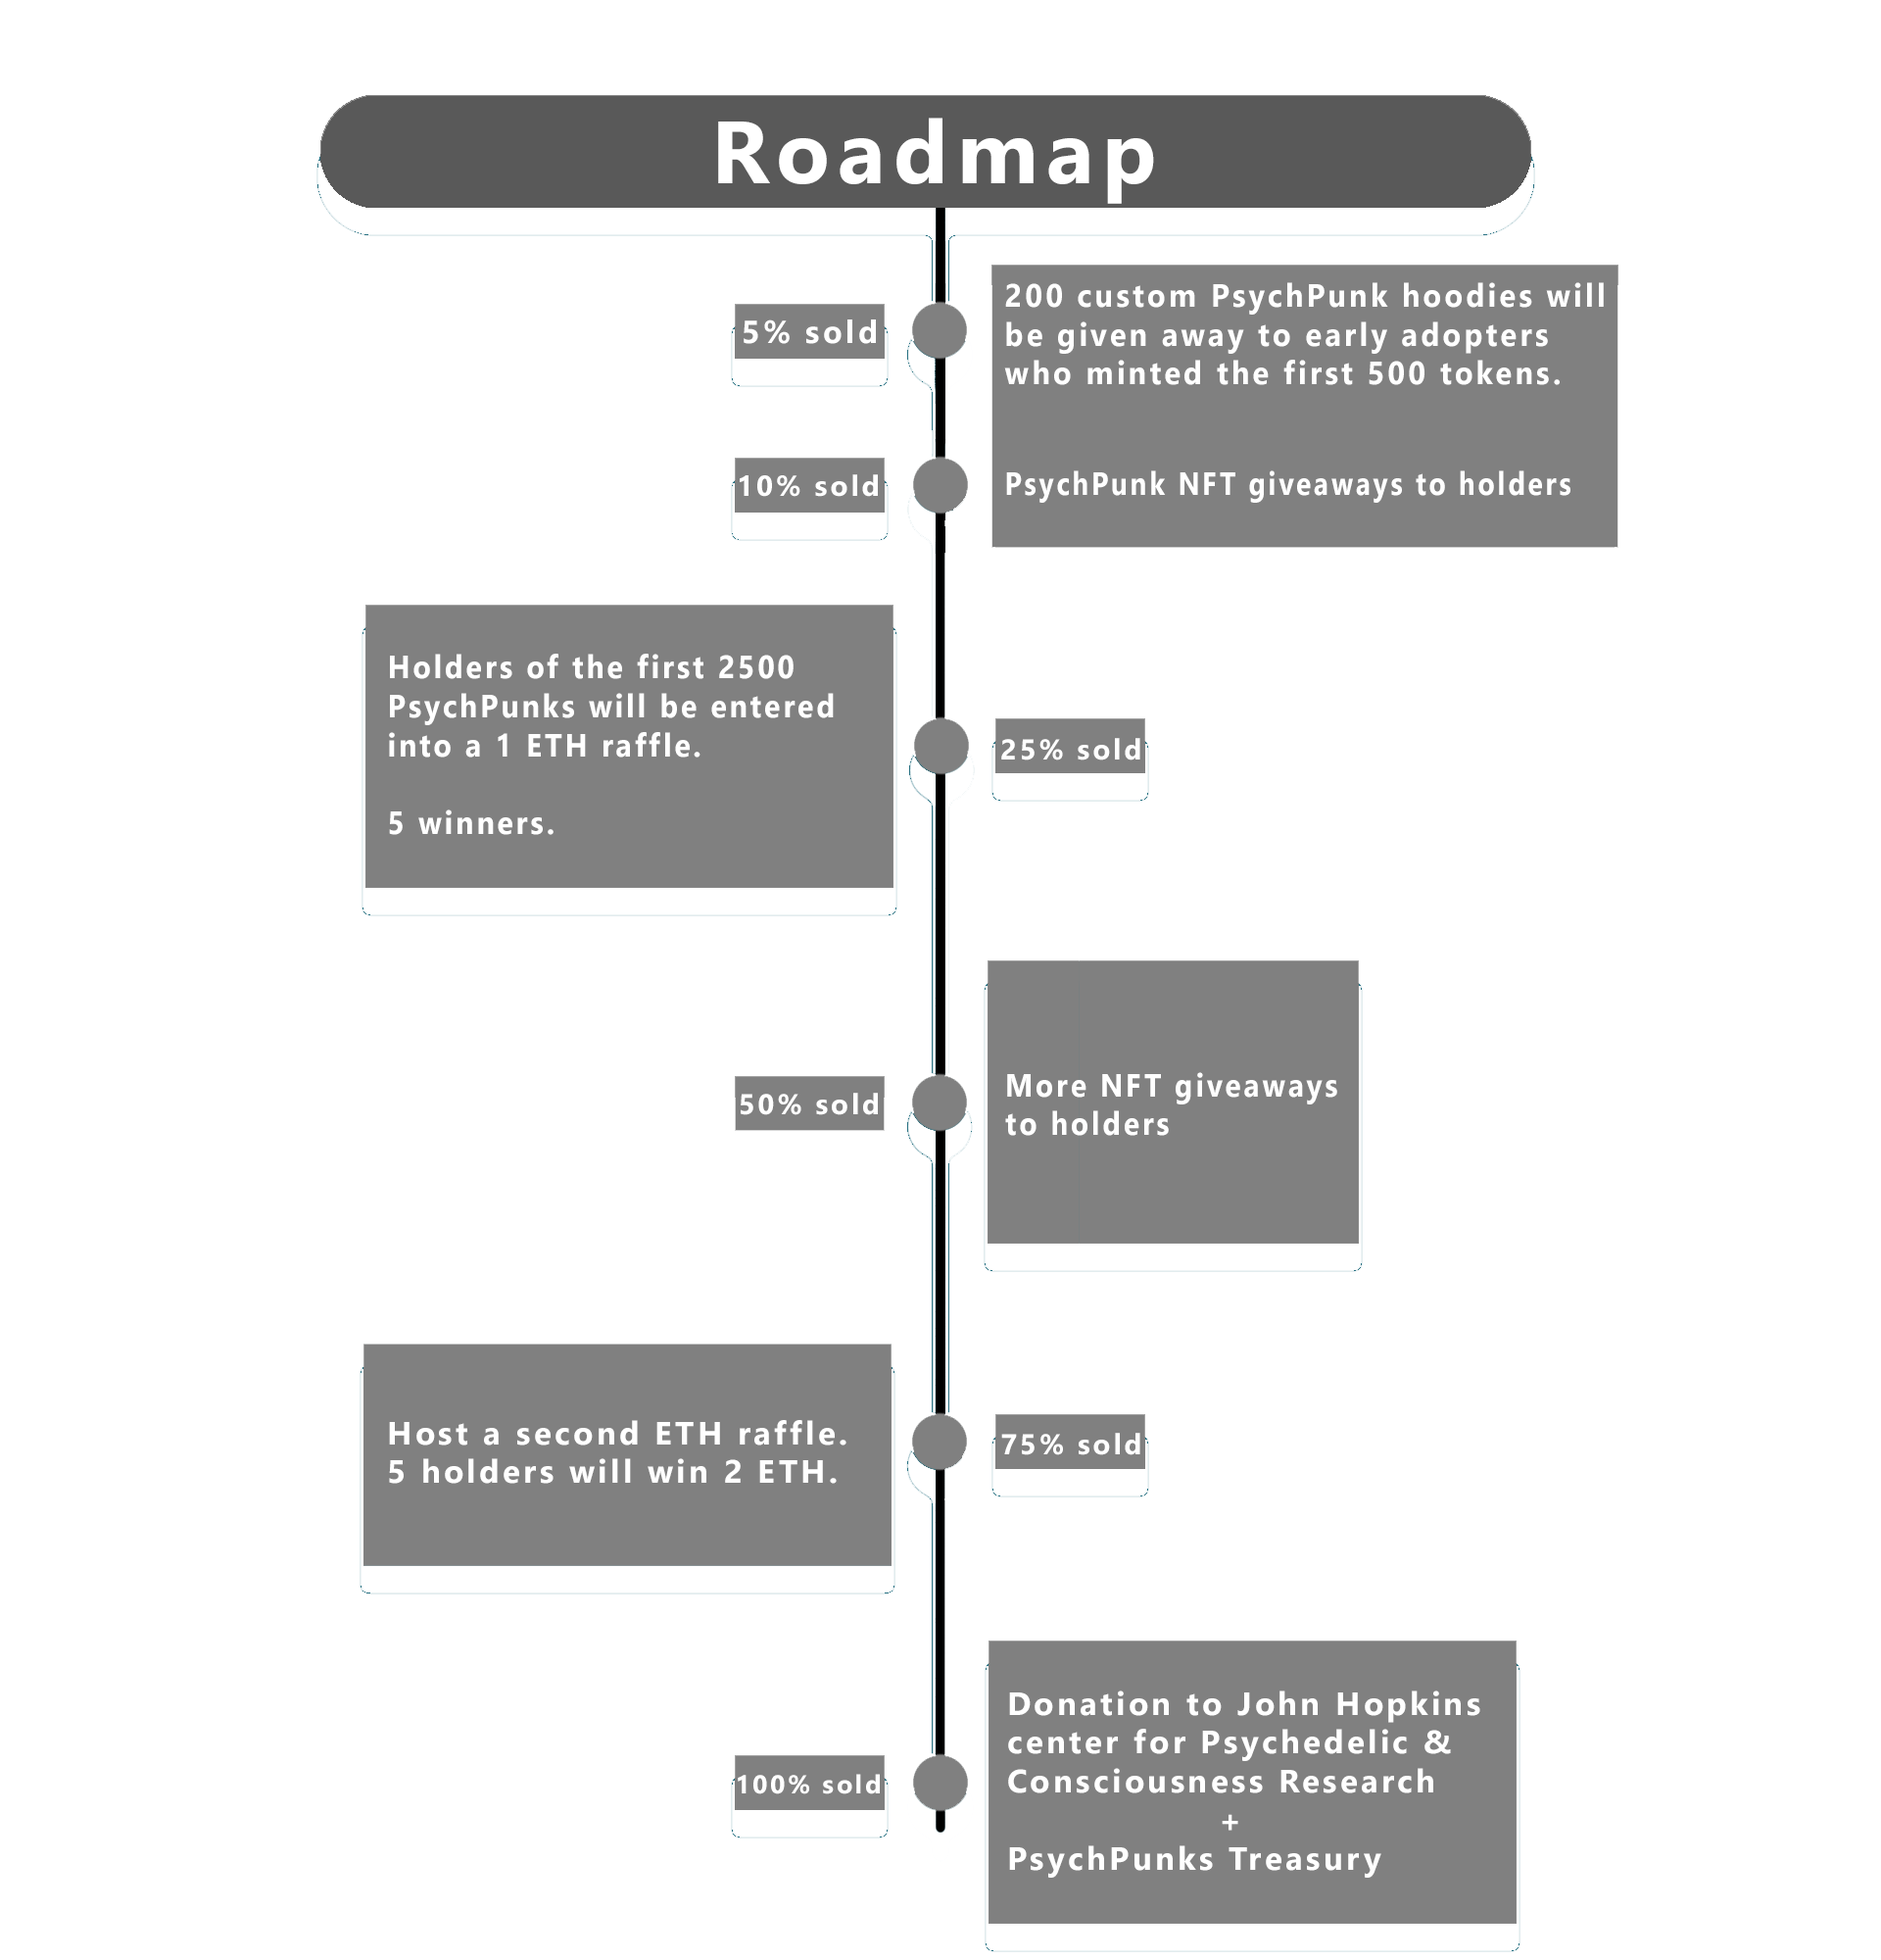
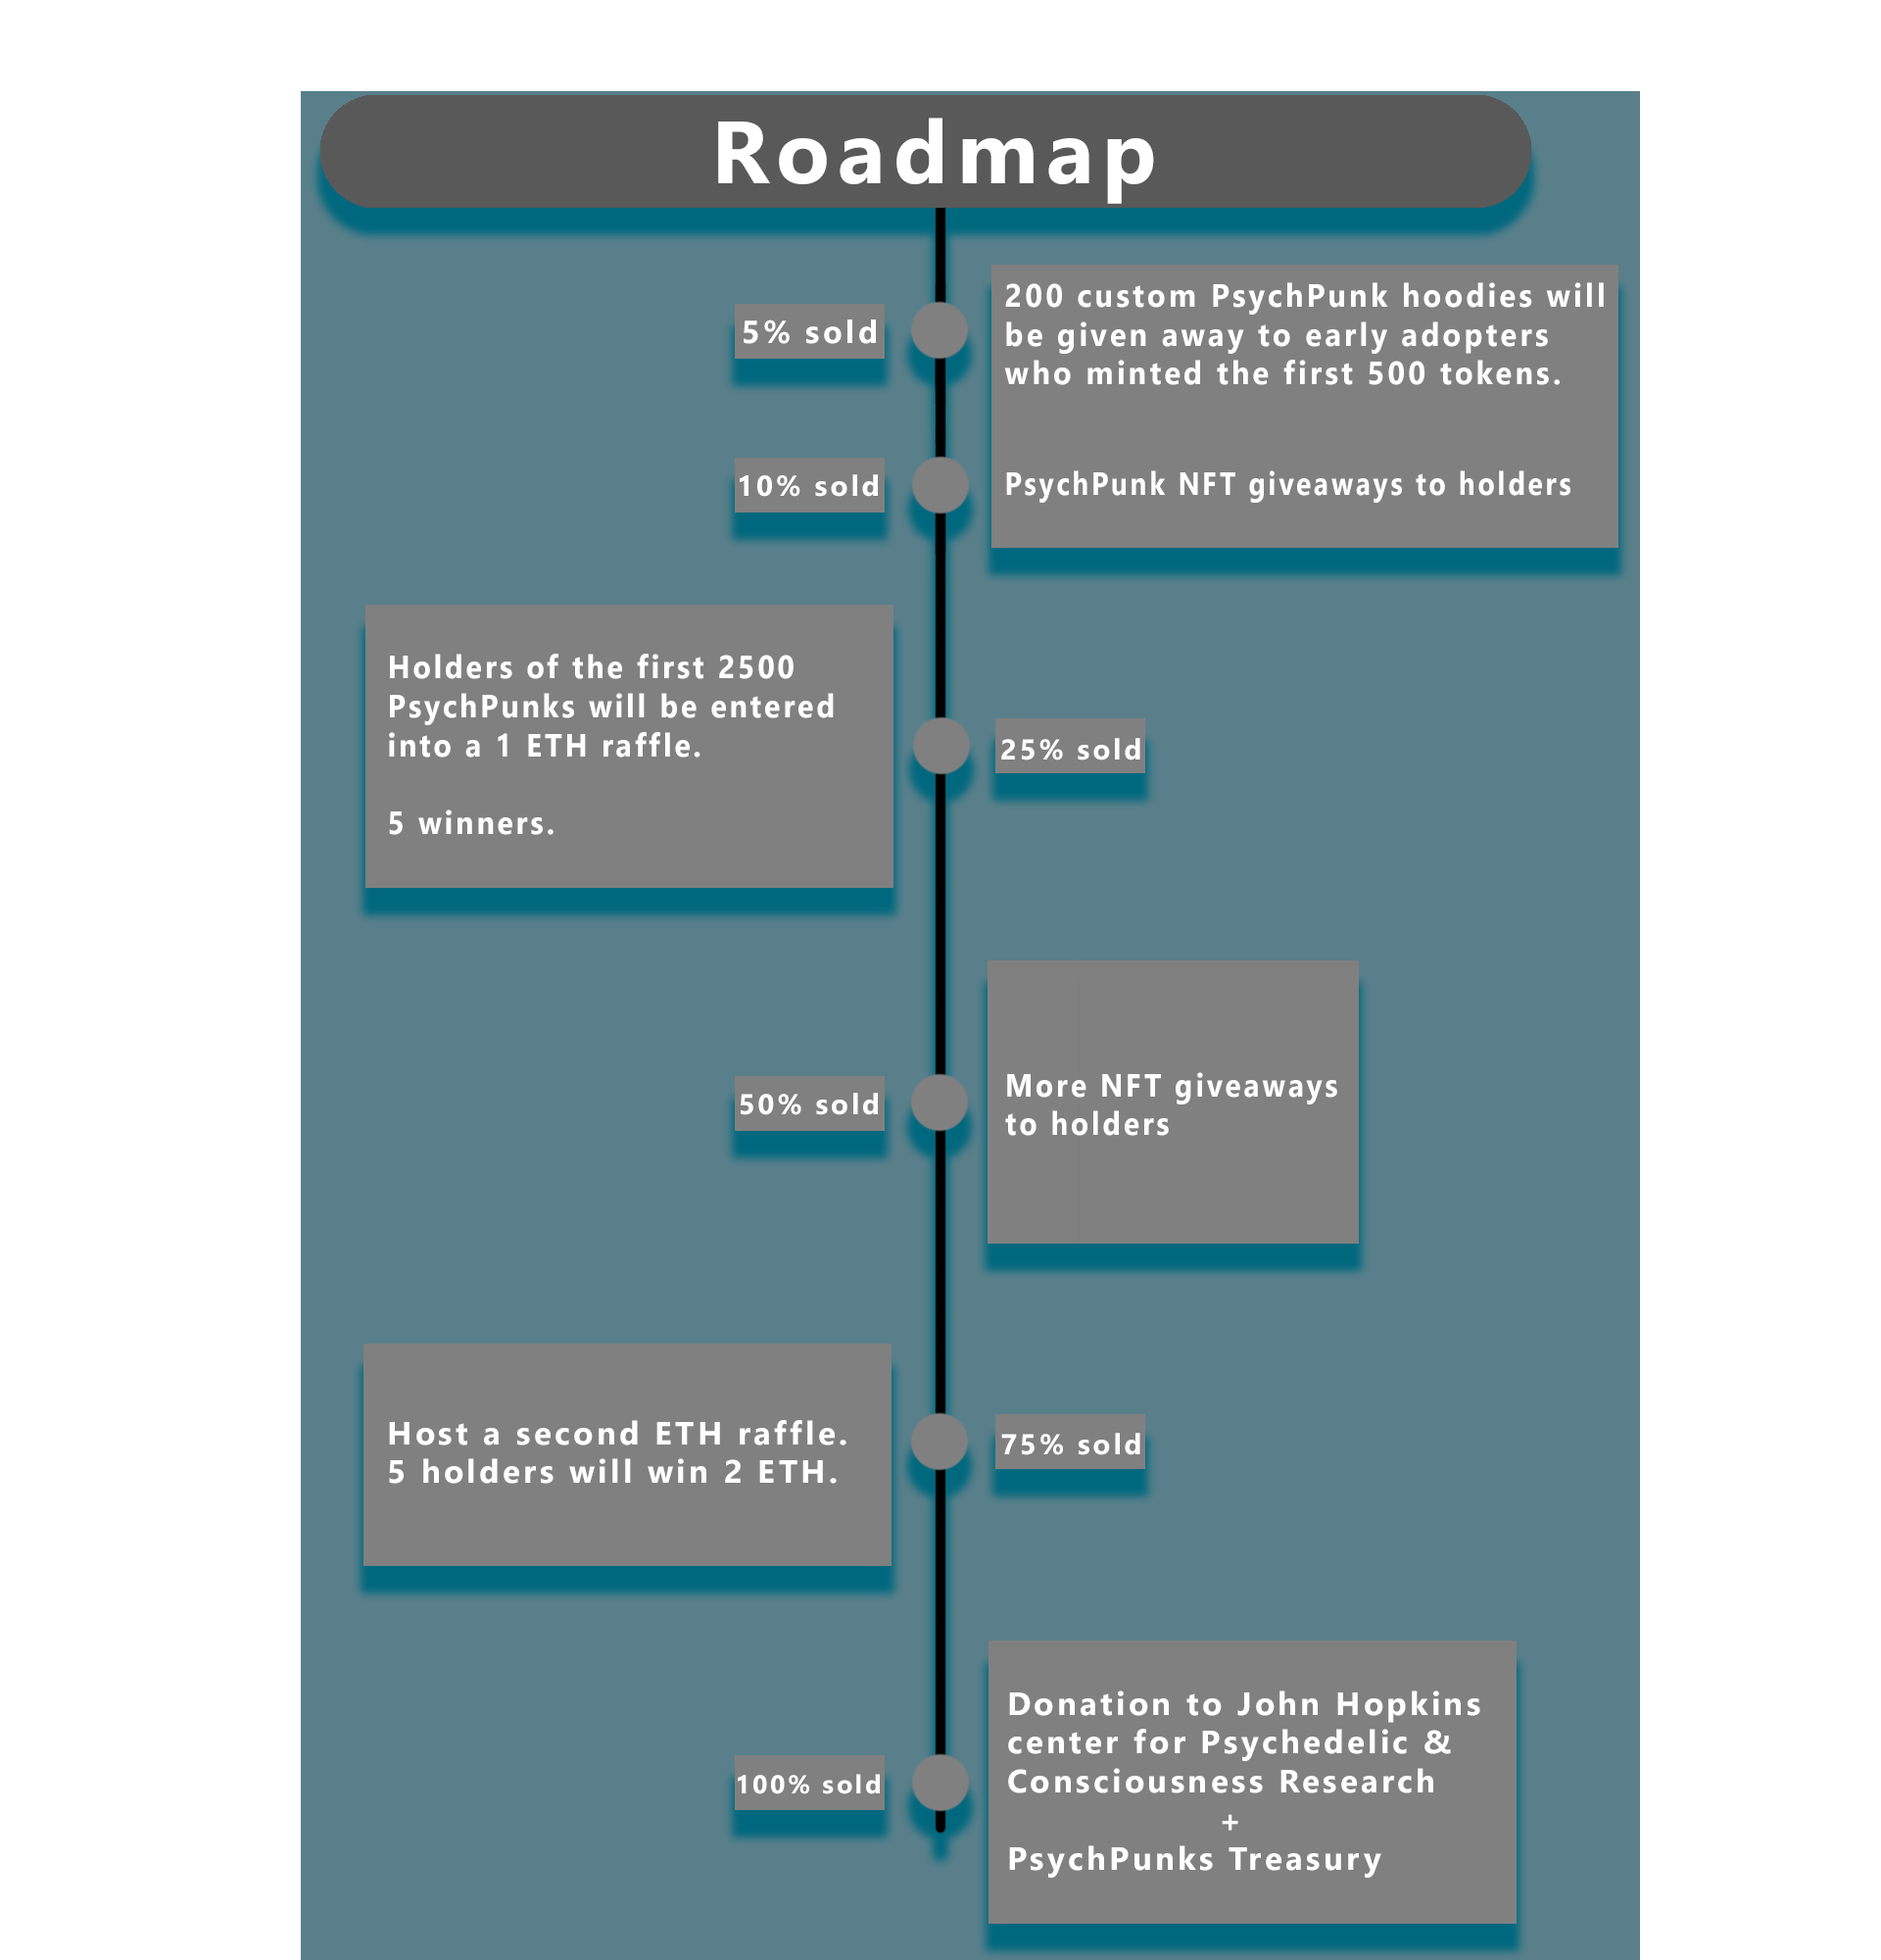
updates

diff --git a/src/components/HeroSection/HeroElements.js b/src/components/HeroSection/HeroElements.js
@@ -53,20 +53,11 @@ export const HeroContent = styled.div`
   align-items: center;
 `;
 
-export const HeroH1 = styled.h1`
-  font-family: PressStart2P;
-  color: white;
-  font-size: 42px;
-  text-align: center;
-  text-shadow: -2px 3px black;
-
-  @media screen and (max-width: 768px) {
-    font-size: 40px;
-  }
-
-  @media screen and (max-width: 480px) {
-    font-size: 32px;
-  }
+export const HeroLogo = styled.img`
+  height: 100px;
+  width: auto;
+  align-self: center;
+  margin-bottom: -20px;
 `;
 
 export const HeroP = styled.p`
@@ -75,6 +66,23 @@ export const HeroP = styled.p`
   font-size: 24px;
   text-align: center;
   max-width: 600px;
+
+  @media screen and (max-width: 768px) {
+    font-size: 24px;
+  }
+
+  @media screen and (max-width: 480px) {
+    font-size: 18px;
+  }
+`;
+
+export const HeroP1 = styled.p`
+  margin-top: 10px;
+  color: white;
+  font-size: 28px;
+  text-align: center;
+  max-width: 600px;
+  text-shadow: 1px 1px black;
 
   @media screen and (max-width: 768px) {
     font-size: 24px;

diff --git a/src/components/HeroSection/index.js b/src/components/HeroSection/index.js
@@ -2,13 +2,15 @@ import React, { useState, useEffect } from "react";
 import { ethers } from "ethers";
 import contract from "../../contracts/psychpunks.json";
 import img from "../../images/bg.png";
+import logo from "../../images/logo.png";
 import {
   HeroContainer,
   HeroBg,
   VideoBg,
   HeroContent,
-  HeroH1,
+  HeroLogo,
   HeroP,
+  HeroP1,
   HeroBtnWrapper,
   ArrowForward,
   ArrowRight,
@@ -80,11 +82,12 @@ const HeroSection = () => {
         <VideoBg autoPlay loop muted src={img} type="img" />
       </HeroBg>
       <HeroContent>
-        <HeroH1>PsychPunks</HeroH1>
+        <HeroLogo src={logo}></HeroLogo>
         <HeroP>
           Mint a psychpunks today! And still have a change to get a Psychpunks
           hoodie!
         </HeroP>
+        <HeroP1>0.042 Ξ</HeroP1>
         <HeroBtnWrapper>
           <Button
             onMouseEnter={onHover}

diff --git a/src/components/Roadmap/RoadmapElements.js b/src/components/Roadmap/RoadmapElements.js
@@ -7,11 +7,13 @@ export const ImageWrapper = styled.div`
   margin-right: auto;
   margin-left: auto;
   justify-content: center;
-  background-color: #75918b;
+  background-color: #587f8a;
   overflow: hidden;
+  padding-bottom: 25px;
 
   @media screen and (max-width: 768px) {
     height: 600px;
+    padding-right: 10px;
   }
 `;
 

diff --git a/src/components/Team/TeamElements.js b/src/components/Team/TeamElements.js
@@ -117,12 +117,14 @@ export const TeamH1 = styled.h1`
 `;
 
 export const TeamH2 = styled.h2`
+  text-shadow: -1px 1px black;
   font-size: 1.5rem;
   margin-bottom: 10px;
   color: white;
 `;
 
 export const TeamP = styled.p`
+  text-shadow: -1px 1px black;
   font-size: 1rem;
   text-align: center;
   color: white;

diff --git a/src/components/Footer/FooterElements.js b/src/components/Footer/FooterElements.js
@@ -32,6 +32,7 @@ export const SocialMediaWrap = styled.div`
 `;
 
 export const SocialLogo = styled.button`
+  font-family: "PressStart2P";
   color: white;
   justify-self: start;
   cursor: pointer;
